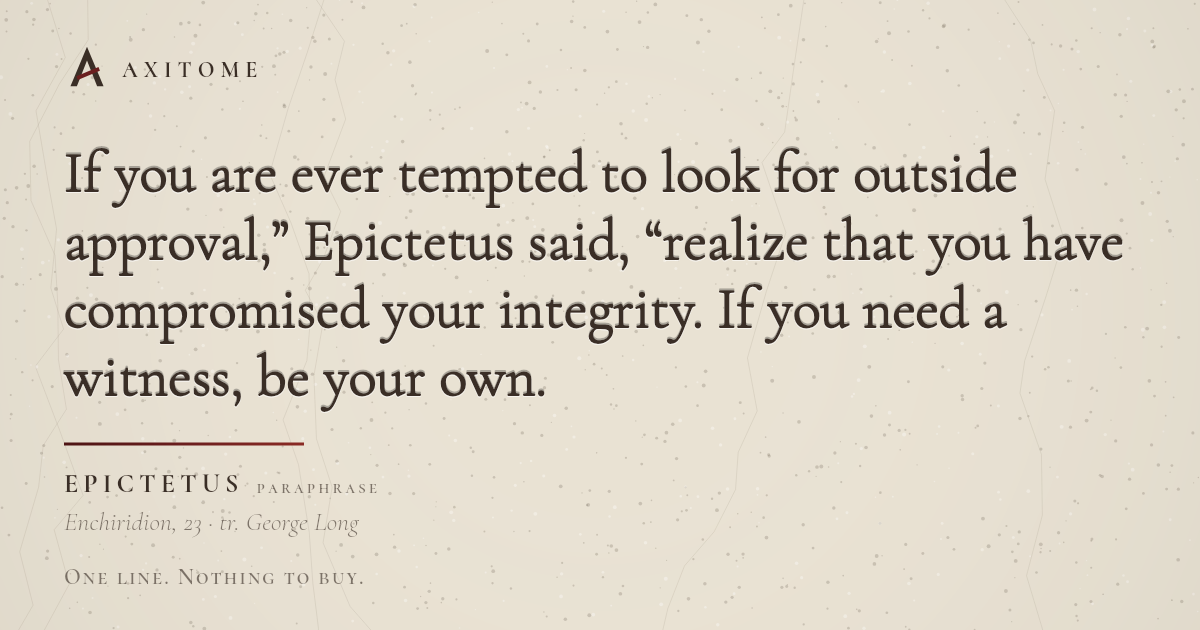
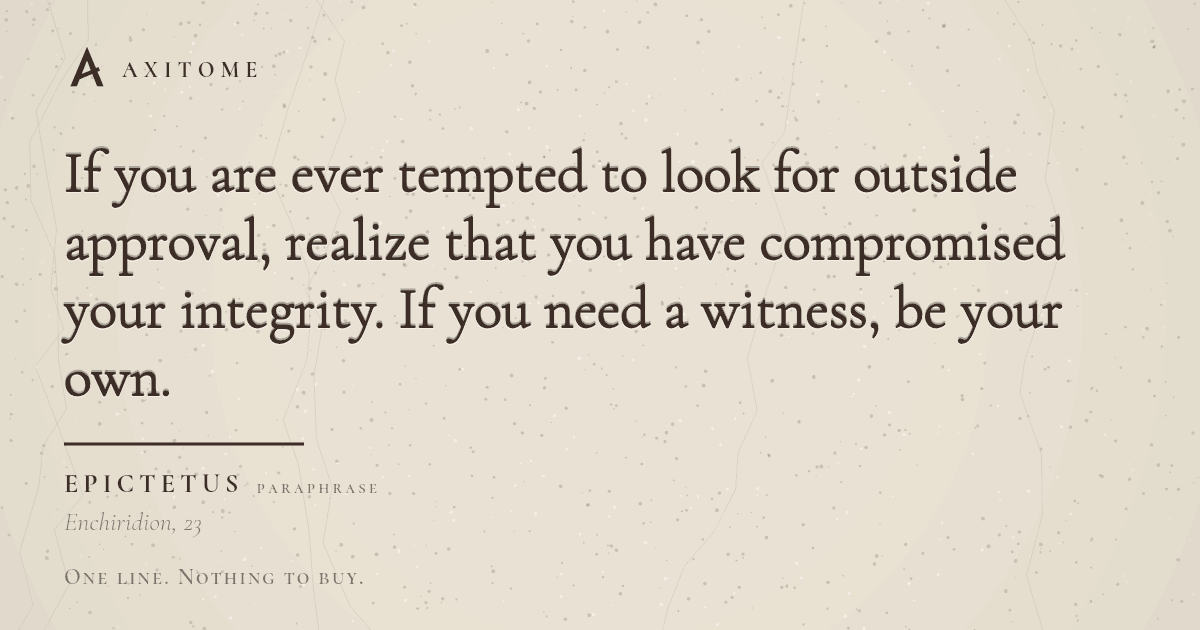
Fix stray mid-quote "Epictetus said" on card #392
Remove the pasted attribution from the quote text so the Nov 17
card and site page read cleanly. Regenerated the quote page, OG
image, author list entry, and related teaser.

diff --git a/public/a/epictetus/index.html b/public/a/epictetus/index.html
@@ -27,7 +27,7 @@
 <link rel="stylesheet" href="https://fonts.googleapis.com/css2?family=Cormorant+SC:wght@500;600;700&family=Cormorant+Garamond:ital,wght@0,500;0,600;1,500&display=swap">
 <link rel="stylesheet" href="/page.css">
 
-<script type="application/ld+json">{"@context":"https://schema.org","@type":"CollectionPage","name":"Quotes by Epictetus | Axitome","url":"https://www.axitome.com/a/epictetus","mainEntity":{"@type":"ItemList","numberOfItems":19,"itemListElement":[{"@type":"ListItem","position":1,"url":"https://www.axitome.com/q/epictetus-if-evil-be-spoken-of-you-and-it-be-true-correct","name":"If evil be spoken of you and it be true, correct yourself, if it be a lie, laugh at it."},{"@type":"ListItem","position":2,"url":"https://www.axitome.com/q/epictetus-you-are-not-your-body-and-hair-style-but-your-ca","name":"You are not your body and hair-style, but your capacity for choosing well. If your choices are beautiful, so too will…"},{"@type":"ListItem","position":3,"url":"https://www.axitome.com/q/epictetus-who-then-is-invincible-the-one-who-cannot-be-ups","name":"Who then is invincible? The one who cannot be upset by anything outside their reasoned choice."},{"@type":"ListItem","position":4,"url":"https://www.axitome.com/q/epictetus-devote-the-rest-of-your-life-to-making-progress","name":"Devote the rest of your life to making progress."},{"@type":"ListItem","position":5,"url":"https://www.axitome.com/q/epictetus-one-person-likes-tending-to-his-farm-another-to","name":"One person likes tending to his farm, another to his horse; I like to daily monitor my self-improvement."},{"@type":"ListItem","position":6,"url":"https://www.axitome.com/q/epictetus-there-is-only-one-way-to-happiness-and-that-is-t","name":"There is only one way to happiness and that is to cease worrying about things which are beyond the power or our will."},{"@type":"ListItem","position":7,"url":"https://www.axitome.com/q/epictetus-practice-yourself-in-little-things-and-from-ther","name":"Practice yourself in little things; and from there proceed to greater things."},{"@type":"ListItem","position":8,"url":"https://www.axitome.com/q/epictetus-circumstance-does-not-make-the-man-it-reveals-hi","name":"Circumstance does not make the man, it reveals him to himself."},{"@type":"ListItem","position":9,"url":"https://www.axitome.com/q/epictetus-no-truly-great-thing-is-created-suddenly","name":"No truly great thing is created suddenly."},{"@type":"ListItem","position":10,"url":"https://www.axitome.com/q/epictetus-progress-is-not-achieved-by-luck-or-accident","name":"Progress is not achieved by luck or accident,"},{"@type":"ListItem","position":11,"url":"https://www.axitome.com/q/epictetus-if-you-are-ever-tempted-to-look-for-outside-appr","name":"If you are ever tempted to look for outside approval,” Epictetus said, “realize that you have compromised your…"},{"@type":"ListItem","position":12,"url":"https://www.axitome.com/q/epictetus-progress-is-not-achieved-by-luck-or-accident-but","name":"Progress is not achieved by luck or accident, but by working on yourself daily."},{"@type":"ListItem","position":13,"url":"https://www.axitome.com/q/epictetus-god-laid-down-this-law-saying-if-you-want-some-g","name":"God laid down this law, saying: if you want some good, get it from yourself."},{"@type":"ListItem","position":14,"url":"https://www.axitome.com/q/epictetus-if-you-wish-to-improve-be-content-to-appear-clue","name":"If you wish to improve, be content to appear clueless or stupid in extraneous matters."},{"@type":"ListItem","position":15,"url":"https://www.axitome.com/q/epictetus-listen-as-the-saying-goes-it-s-crisis-time-make","name":"Listen, as the saying goes, it's crisis time: make a last desperate effort to gain freedom and tranquility - to be…"},{"@type":"ListItem","position":16,"url":"https://www.axitome.com/q/epictetus-if-you-desire-to-be-good-begin-by-believing-that","name":"If you desire to be good, begin by believing that you are wicked."},{"@type":"ListItem","position":17,"url":"https://www.axitome.com/q/epictetus-sickness-is-an-impediment-to-the-body-but-not-to","name":"Sickness is an impediment to the body but not to the will unless the will wants to be impeded. Lameness is an…"},{"@type":"ListItem","position":18,"url":"https://www.axitome.com/q/epictetus-persist-and-resist","name":"Persist and Resist."},{"@type":"ListItem","position":19,"url":"https://www.axitome.com/q/epictetus-curb-your-desire-don-t-set-your-heart-on-so-many","name":"Curb your desire— don't set your heart on so many things and you will get what you need."}]}}</script>
+<script type="application/ld+json">{"@context":"https://schema.org","@type":"CollectionPage","name":"Quotes by Epictetus | Axitome","url":"https://www.axitome.com/a/epictetus","mainEntity":{"@type":"ItemList","numberOfItems":19,"itemListElement":[{"@type":"ListItem","position":1,"url":"https://www.axitome.com/q/epictetus-if-evil-be-spoken-of-you-and-it-be-true-correct","name":"If evil be spoken of you and it be true, correct yourself, if it be a lie, laugh at it."},{"@type":"ListItem","position":2,"url":"https://www.axitome.com/q/epictetus-you-are-not-your-body-and-hair-style-but-your-ca","name":"You are not your body and hair-style, but your capacity for choosing well. If your choices are beautiful, so too will…"},{"@type":"ListItem","position":3,"url":"https://www.axitome.com/q/epictetus-who-then-is-invincible-the-one-who-cannot-be-ups","name":"Who then is invincible? The one who cannot be upset by anything outside their reasoned choice."},{"@type":"ListItem","position":4,"url":"https://www.axitome.com/q/epictetus-devote-the-rest-of-your-life-to-making-progress","name":"Devote the rest of your life to making progress."},{"@type":"ListItem","position":5,"url":"https://www.axitome.com/q/epictetus-one-person-likes-tending-to-his-farm-another-to","name":"One person likes tending to his farm, another to his horse; I like to daily monitor my self-improvement."},{"@type":"ListItem","position":6,"url":"https://www.axitome.com/q/epictetus-there-is-only-one-way-to-happiness-and-that-is-t","name":"There is only one way to happiness and that is to cease worrying about things which are beyond the power or our will."},{"@type":"ListItem","position":7,"url":"https://www.axitome.com/q/epictetus-practice-yourself-in-little-things-and-from-ther","name":"Practice yourself in little things; and from there proceed to greater things."},{"@type":"ListItem","position":8,"url":"https://www.axitome.com/q/epictetus-circumstance-does-not-make-the-man-it-reveals-hi","name":"Circumstance does not make the man, it reveals him to himself."},{"@type":"ListItem","position":9,"url":"https://www.axitome.com/q/epictetus-no-truly-great-thing-is-created-suddenly","name":"No truly great thing is created suddenly."},{"@type":"ListItem","position":10,"url":"https://www.axitome.com/q/epictetus-progress-is-not-achieved-by-luck-or-accident","name":"Progress is not achieved by luck or accident,"},{"@type":"ListItem","position":11,"url":"https://www.axitome.com/q/epictetus-if-you-are-ever-tempted-to-look-for-outside-appr","name":"If you are ever tempted to look for outside approval, realize that you have compromised your integrity. If you need a…"},{"@type":"ListItem","position":12,"url":"https://www.axitome.com/q/epictetus-progress-is-not-achieved-by-luck-or-accident-but","name":"Progress is not achieved by luck or accident, but by working on yourself daily."},{"@type":"ListItem","position":13,"url":"https://www.axitome.com/q/epictetus-god-laid-down-this-law-saying-if-you-want-some-g","name":"God laid down this law, saying: if you want some good, get it from yourself."},{"@type":"ListItem","position":14,"url":"https://www.axitome.com/q/epictetus-if-you-wish-to-improve-be-content-to-appear-clue","name":"If you wish to improve, be content to appear clueless or stupid in extraneous matters."},{"@type":"ListItem","position":15,"url":"https://www.axitome.com/q/epictetus-listen-as-the-saying-goes-it-s-crisis-time-make","name":"Listen, as the saying goes, it's crisis time: make a last desperate effort to gain freedom and tranquility - to be…"},{"@type":"ListItem","position":16,"url":"https://www.axitome.com/q/epictetus-if-you-desire-to-be-good-begin-by-believing-that","name":"If you desire to be good, begin by believing that you are wicked."},{"@type":"ListItem","position":17,"url":"https://www.axitome.com/q/epictetus-sickness-is-an-impediment-to-the-body-but-not-to","name":"Sickness is an impediment to the body but not to the will unless the will wants to be impeded. Lameness is an…"},{"@type":"ListItem","position":18,"url":"https://www.axitome.com/q/epictetus-persist-and-resist","name":"Persist and Resist."},{"@type":"ListItem","position":19,"url":"https://www.axitome.com/q/epictetus-curb-your-desire-don-t-set-your-heart-on-so-many","name":"Curb your desire— don't set your heart on so many things and you will get what you need."}]}}</script>
 </head>
 <body>
 <header class="top"><a class="brand" href="/"><svg viewBox="0 0 100 100" aria-hidden="true"><path d="M50 6 L86 92 H72 L50 36 L28 92 H14 Z" fill="#3A2E26"/><path d="M27 70 L75 50 L78 58 L30 78 Z" fill="#6B1E1E"/></svg>Axitome</a><a class="top-link" href="/">Today</a></header>
@@ -35,7 +35,7 @@
   <p class="kicker">19 quotes</p>
   <h1 class="quote name">Epictetus</h1>
   <div class="cut" aria-hidden="true"></div>
-  <ul class="author-list"><li><a href="/q/epictetus-if-evil-be-spoken-of-you-and-it-be-true-correct"><p>If evil be spoken of you and it be true, correct yourself, if it be a lie, laugh at it.</p></a></li><li><a href="/q/epictetus-you-are-not-your-body-and-hair-style-but-your-ca"><p>You are not your body and hair-style, but your capacity for choosing well. If your choices are beautiful, so too will you be.</p></a></li><li><a href="/q/epictetus-who-then-is-invincible-the-one-who-cannot-be-ups"><p>Who then is invincible? The one who cannot be upset by anything outside their reasoned choice.</p></a></li><li><a href="/q/epictetus-devote-the-rest-of-your-life-to-making-progress"><p>Devote the rest of your life to making progress.</p></a></li><li><a href="/q/epictetus-one-person-likes-tending-to-his-farm-another-to"><p>One person likes tending to his farm, another to his horse; I like to daily monitor my self-improvement.</p></a></li><li><a href="/q/epictetus-there-is-only-one-way-to-happiness-and-that-is-t"><p>There is only one way to happiness and that is to cease worrying about things which are beyond the power or our will.</p></a></li><li><a href="/q/epictetus-practice-yourself-in-little-things-and-from-ther"><p>Practice yourself in little things; and from there proceed to greater things.</p></a></li><li><a href="/q/epictetus-circumstance-does-not-make-the-man-it-reveals-hi"><p>Circumstance does not make the man, it reveals him to himself.</p></a></li><li><a href="/q/epictetus-no-truly-great-thing-is-created-suddenly"><p>No truly great thing is created suddenly.</p></a></li><li><a href="/q/epictetus-progress-is-not-achieved-by-luck-or-accident"><p>Progress is not achieved by luck or accident,</p></a></li><li><a href="/q/epictetus-if-you-are-ever-tempted-to-look-for-outside-appr"><p>If you are ever tempted to look for outside approval,” Epictetus said, “realize that you have compromised your integrity. If you need a witness, be your own.</p></a></li><li><a href="/q/epictetus-progress-is-not-achieved-by-luck-or-accident-but"><p>Progress is not achieved by luck or accident, but by working on yourself daily.</p></a></li><li><a href="/q/epictetus-god-laid-down-this-law-saying-if-you-want-some-g"><p>God laid down this law, saying: if you want some good, get it from yourself.</p></a></li><li><a href="/q/epictetus-if-you-wish-to-improve-be-content-to-appear-clue"><p>If you wish to improve, be content to appear clueless or stupid in extraneous matters.</p></a></li><li><a href="/q/epictetus-listen-as-the-saying-goes-it-s-crisis-time-make"><p>Listen, as the saying goes, it's crisis time: make a last desperate effort to gain freedom and tranquility - to be Stoic.</p></a></li><li><a href="/q/epictetus-if-you-desire-to-be-good-begin-by-believing-that"><p>If you desire to be good, begin by believing that you are wicked.</p></a></li><li><a href="/q/epictetus-sickness-is-an-impediment-to-the-body-but-not-to"><p>Sickness is an impediment to the body but not to the will unless the will wants to be impeded. Lameness is an impediment to the leg, but not to will. If you tell yourself this every time, you will find the impediment is to something else but not to yourself.</p></a></li><li><a href="/q/epictetus-persist-and-resist"><p>Persist and Resist.</p></a></li><li><a href="/q/epictetus-curb-your-desire-don-t-set-your-heart-on-so-many"><p>Curb your desire— don't set your heart on so many things and you will get what you need.</p></a></li></ul>
+  <ul class="author-list"><li><a href="/q/epictetus-if-evil-be-spoken-of-you-and-it-be-true-correct"><p>If evil be spoken of you and it be true, correct yourself, if it be a lie, laugh at it.</p></a></li><li><a href="/q/epictetus-you-are-not-your-body-and-hair-style-but-your-ca"><p>You are not your body and hair-style, but your capacity for choosing well. If your choices are beautiful, so too will you be.</p></a></li><li><a href="/q/epictetus-who-then-is-invincible-the-one-who-cannot-be-ups"><p>Who then is invincible? The one who cannot be upset by anything outside their reasoned choice.</p></a></li><li><a href="/q/epictetus-devote-the-rest-of-your-life-to-making-progress"><p>Devote the rest of your life to making progress.</p></a></li><li><a href="/q/epictetus-one-person-likes-tending-to-his-farm-another-to"><p>One person likes tending to his farm, another to his horse; I like to daily monitor my self-improvement.</p></a></li><li><a href="/q/epictetus-there-is-only-one-way-to-happiness-and-that-is-t"><p>There is only one way to happiness and that is to cease worrying about things which are beyond the power or our will.</p></a></li><li><a href="/q/epictetus-practice-yourself-in-little-things-and-from-ther"><p>Practice yourself in little things; and from there proceed to greater things.</p></a></li><li><a href="/q/epictetus-circumstance-does-not-make-the-man-it-reveals-hi"><p>Circumstance does not make the man, it reveals him to himself.</p></a></li><li><a href="/q/epictetus-no-truly-great-thing-is-created-suddenly"><p>No truly great thing is created suddenly.</p></a></li><li><a href="/q/epictetus-progress-is-not-achieved-by-luck-or-accident"><p>Progress is not achieved by luck or accident,</p></a></li><li><a href="/q/epictetus-if-you-are-ever-tempted-to-look-for-outside-appr"><p>If you are ever tempted to look for outside approval, realize that you have compromised your integrity. If you need a witness, be your own.</p></a></li><li><a href="/q/epictetus-progress-is-not-achieved-by-luck-or-accident-but"><p>Progress is not achieved by luck or accident, but by working on yourself daily.</p></a></li><li><a href="/q/epictetus-god-laid-down-this-law-saying-if-you-want-some-g"><p>God laid down this law, saying: if you want some good, get it from yourself.</p></a></li><li><a href="/q/epictetus-if-you-wish-to-improve-be-content-to-appear-clue"><p>If you wish to improve, be content to appear clueless or stupid in extraneous matters.</p></a></li><li><a href="/q/epictetus-listen-as-the-saying-goes-it-s-crisis-time-make"><p>Listen, as the saying goes, it's crisis time: make a last desperate effort to gain freedom and tranquility - to be Stoic.</p></a></li><li><a href="/q/epictetus-if-you-desire-to-be-good-begin-by-believing-that"><p>If you desire to be good, begin by believing that you are wicked.</p></a></li><li><a href="/q/epictetus-sickness-is-an-impediment-to-the-body-but-not-to"><p>Sickness is an impediment to the body but not to the will unless the will wants to be impeded. Lameness is an impediment to the leg, but not to will. If you tell yourself this every time, you will find the impediment is to something else but not to yourself.</p></a></li><li><a href="/q/epictetus-persist-and-resist"><p>Persist and Resist.</p></a></li><li><a href="/q/epictetus-curb-your-desire-don-t-set-your-heart-on-so-many"><p>Curb your desire— don't set your heart on so many things and you will get what you need.</p></a></li></ul>
 </main>
 <div class="dark">
   <section class="signup">

diff --git a/public/q/epictetus-if-you-are-ever-tempted-to-look-for-outside-appr/index.html b/public/q/epictetus-if-you-are-ever-tempted-to-look-for-outside-appr/index.html
@@ -7,37 +7,37 @@
 <link rel="icon" href="/favicon.svg" type="image/svg+xml">
 <link rel="apple-touch-icon" href="/apple-touch-icon.png">
 <link rel="manifest" href="/site.webmanifest">
-<title>Epictetus on perseverance: “If you are ever tempted to look for outside approval,” Epictetus said, “realize that you have compromised…” | Axitome</title>
-<meta name="description" content="“If you are ever tempted to look for outside approval,” Epictetus said, “realize that you have compromised your integrity. If you need a witness, be your…">
+<title>Epictetus on perseverance: “If you are ever tempted to look for outside approval, realize that you have compromised your integrity. If…” | Axitome</title>
+<meta name="description" content="“If you are ever tempted to look for outside approval, realize that you have compromised your integrity. If you need a witness, be your own.” — Epictetus…">
 <link rel="canonical" href="https://www.axitome.com/q/epictetus-if-you-are-ever-tempted-to-look-for-outside-appr">
 <meta property="og:type" content="article">
 <meta property="og:site_name" content="Axitome">
-<meta property="og:title" content="Epictetus on perseverance: “If you are ever tempted to look for outside approval,” Epictetus said, “realize that you have compromised…” | Axitome">
-<meta property="og:description" content="“If you are ever tempted to look for outside approval,” Epictetus said, “realize that you have compromised your integrity. If you need a witness, be your…">
+<meta property="og:title" content="Epictetus on perseverance: “If you are ever tempted to look for outside approval, realize that you have compromised your integrity. If…” | Axitome">
+<meta property="og:description" content="“If you are ever tempted to look for outside approval, realize that you have compromised your integrity. If you need a witness, be your own.” — Epictetus…">
 <meta property="og:url" content="https://www.axitome.com/q/epictetus-if-you-are-ever-tempted-to-look-for-outside-appr">
 <meta property="og:image" content="https://www.axitome.com/og/q/epictetus-if-you-are-ever-tempted-to-look-for-outside-appr.png">
 <meta property="og:image:width" content="1200">
 <meta property="og:image:height" content="630">
 <meta name="twitter:card" content="summary_large_image">
-<meta name="twitter:title" content="Epictetus on perseverance: “If you are ever tempted to look for outside approval,” Epictetus said, “realize that you have compromised…” | Axitome">
-<meta name="twitter:description" content="“If you are ever tempted to look for outside approval,” Epictetus said, “realize that you have compromised your integrity. If you need a witness, be your…">
+<meta name="twitter:title" content="Epictetus on perseverance: “If you are ever tempted to look for outside approval, realize that you have compromised your integrity. If…” | Axitome">
+<meta name="twitter:description" content="“If you are ever tempted to look for outside approval, realize that you have compromised your integrity. If you need a witness, be your own.” — Epictetus…">
 <meta name="twitter:image" content="https://www.axitome.com/og/q/epictetus-if-you-are-ever-tempted-to-look-for-outside-appr.png">
-<meta property="og:image:alt" content="Epictetus on perseverance: “If you are ever tempted to look for outside approval,” Epictetus said, “realize that you have compromised…” | Axitome">
+<meta property="og:image:alt" content="Epictetus on perseverance: “If you are ever tempted to look for outside approval, realize that you have compromised your integrity. If…” | Axitome">
 <link rel="preconnect" href="https://fonts.googleapis.com">
 <link rel="stylesheet" href="https://fonts.googleapis.com/css2?family=Cormorant+SC:wght@500;600;700&family=Cormorant+Garamond:ital,wght@0,500;0,600;1,500&display=swap">
 <link rel="stylesheet" href="/page.css">
 
-<script type="application/ld+json">{"@context":"https://schema.org","@type":"Quotation","text":"If you are ever tempted to look for outside approval,” Epictetus said, “realize that you have compromised your integrity. If you need a witness, be your own.","url":"https://www.axitome.com/q/epictetus-if-you-are-ever-tempted-to-look-for-outside-appr","inLanguage":"en","creditText":"Paraphrase: Epictetus","citation":"Enchiridion 23, trans. George Long"}</script>
-<script type="application/ld+json">{"@context":"https://schema.org","@type":"BreadcrumbList","itemListElement":[{"@type":"ListItem","position":1,"name":"Axitome","item":"https://www.axitome.com/"},{"@type":"ListItem","position":2,"name":"Epictetus","item":"https://www.axitome.com/a/epictetus"},{"@type":"ListItem","position":3,"name":"If you are ever tempted to look for outside approval,” Epictetus said…","item":"https://www.axitome.com/q/epictetus-if-you-are-ever-tempted-to-look-for-outside-appr"}]}</script>
+<script type="application/ld+json">{"@context":"https://schema.org","@type":"Quotation","text":"If you are ever tempted to look for outside approval, realize that you have compromised your integrity. If you need a witness, be your own.","url":"https://www.axitome.com/q/epictetus-if-you-are-ever-tempted-to-look-for-outside-appr","inLanguage":"en","creditText":"Paraphrase: Epictetus","citation":"Paraphrase of Enchiridion 23"}</script>
+<script type="application/ld+json">{"@context":"https://schema.org","@type":"BreadcrumbList","itemListElement":[{"@type":"ListItem","position":1,"name":"Axitome","item":"https://www.axitome.com/"},{"@type":"ListItem","position":2,"name":"Epictetus","item":"https://www.axitome.com/a/epictetus"},{"@type":"ListItem","position":3,"name":"If you are ever tempted to look for outside approval, realize that you have…","item":"https://www.axitome.com/q/epictetus-if-you-are-ever-tempted-to-look-for-outside-appr"}]}</script>
 </head>
 <body>
 <header class="top"><a class="brand" href="/"><svg viewBox="0 0 100 100" aria-hidden="true"><path d="M50 6 L86 92 H72 L50 36 L28 92 H14 Z" fill="#3A2E26"/><path d="M27 70 L75 50 L78 58 L30 78 Z" fill="#6B1E1E"/></svg>Axitome</a><a class="top-link" href="/">Today</a></header>
 <main class="wrap">
   <article>
-    <h1 class="quote medium" aria-label="If you are ever tempted to look for outside approval,” Epictetus said, “realize that you have compromised your integrity. If you need a witness, be your own."><span class="line">If you are ever tempted</span><span class="line">to look for outside</span><span class="line">approval,” Epictetus</span><span class="line">said, “realize that you</span><span class="line">have compromised your</span><span class="line">integrity. If you need</span><span class="line">a witness, be your own.</span></h1>
+    <h1 class="quote medium" aria-label="If you are ever tempted to look for outside approval, realize that you have compromised your integrity. If you need a witness, be your own."><span class="line">If you are ever tempted</span><span class="line">to look for outside</span><span class="line">approval, realize that</span><span class="line">you have compromised</span><span class="line">your integrity.</span><span class="line">If you need a witness,</span><span class="line">be your own.</span></h1>
     <div class="cut" aria-hidden="true"></div>
     <p class="by"><a href="/a/epictetus">Epictetus</a><span class="mark">Paraphrase</span></p>
-    <p class="work">Enchiridion, 23 · tr. George Long</p>
+    <p class="work"><a href="https://www.gutenberg.org/ebooks/10661">Enchiridion, 23</a></p>
   </article>
   <section class="related"><h2>More on perseverance</h2><ul><li><a href="/q/seneca-disaster-is-virtue-s-opportunity"><p>Disaster is Virtue’s opportunity.</p><span>Seneca</span></a></li><li><a href="/q/unknown-the-moviegoer-i-don-t-quite-know-what-we-re-doing-on-this-insi"><p>I don't quite know what we're doing on this insignificant cinder spinning away in a dark corner of the universe. That is a secret which the high gods have not confided in me. Yet one thing I believe and I believe it with every fibre of my being. A man must live by his lights and do what little he can and do it as best as he can. In this world goodness is destined to be defeated. But a man must go down fighting. That is the victory. To do anything less is to be less than a man.</p><span>Unknown, The Moviegoer</span></a></li><li><a href="/q/anonymous-success-is-walking-from-failure-to-failure-with"><p>Success is walking from failure to failure with no loss of enthusiasm.</p><span>Anonymous</span></a></li></ul></section>
 </main>

diff --git a/public/q/seneca-disaster-is-virtue-s-opportunity/index.html b/public/q/seneca-disaster-is-virtue-s-opportunity/index.html
@@ -39,7 +39,7 @@
     <p class="by"><a href="/a/seneca">Seneca</a></p>
     <p class="work">On Providence 4.6 · tr. J. W. Basore</p>
   </article>
-  <section class="related"><h2>More on character</h2><ul><li><a href="/q/epictetus-if-you-are-ever-tempted-to-look-for-outside-appr"><p>If you are ever tempted to look for outside approval,” Epictetus said, “realize that you have compromised your integrity. If you need a witness, be your own.</p><span>Epictetus</span></a></li><li><a href="/q/aristotle-the-good-for-man-is-activity-of-the-soul-in-acco"><p>The good for man is activity of the soul in accordance with virtue.</p><span>Aristotle</span></a></li><li><a href="/q/dailystloc-philosophy-it-s-about-realizing-your-potential-i"><p>[Philosophy] It’s about realizing your potential—intellectually, morally, spiritually.</p><span>DailyStloc</span></a></li></ul></section>
+  <section class="related"><h2>More on character</h2><ul><li><a href="/q/epictetus-if-you-are-ever-tempted-to-look-for-outside-appr"><p>If you are ever tempted to look for outside approval, realize that you have compromised your integrity. If you need a witness, be your own.</p><span>Epictetus</span></a></li><li><a href="/q/aristotle-the-good-for-man-is-activity-of-the-soul-in-acco"><p>The good for man is activity of the soul in accordance with virtue.</p><span>Aristotle</span></a></li><li><a href="/q/dailystloc-philosophy-it-s-about-realizing-your-potential-i"><p>[Philosophy] It’s about realizing your potential—intellectually, morally, spiritually.</p><span>DailyStloc</span></a></li></ul></section>
 </main>
 <div class="quiet">
   <section class="signup">
